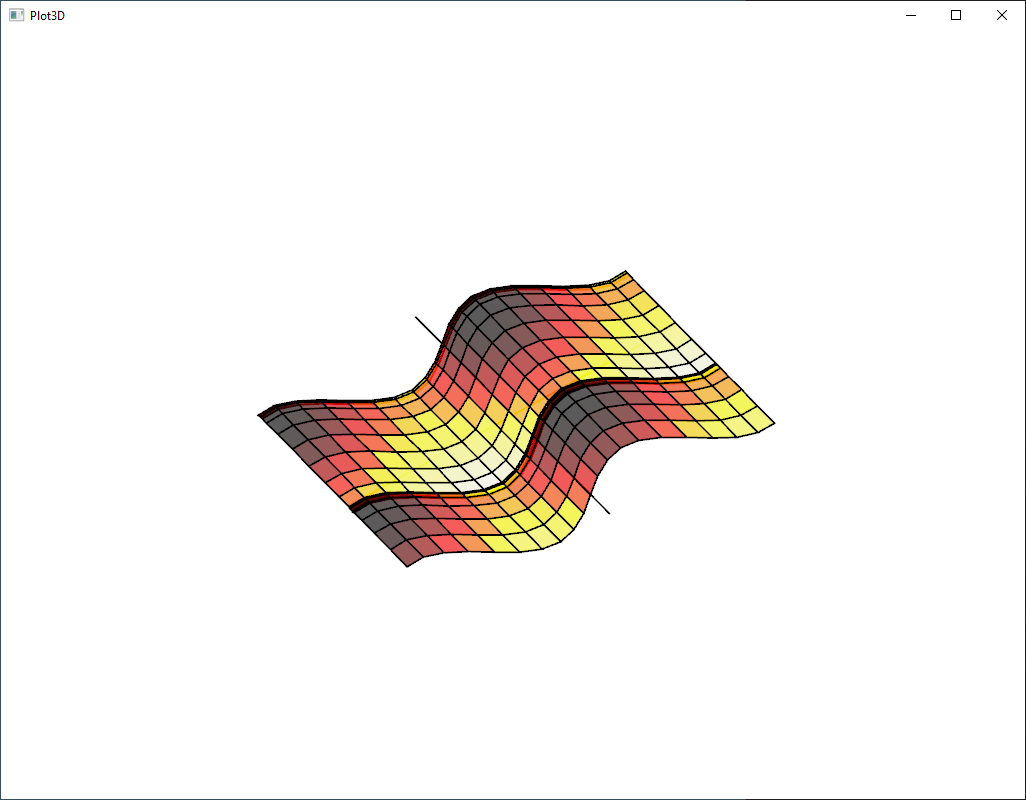
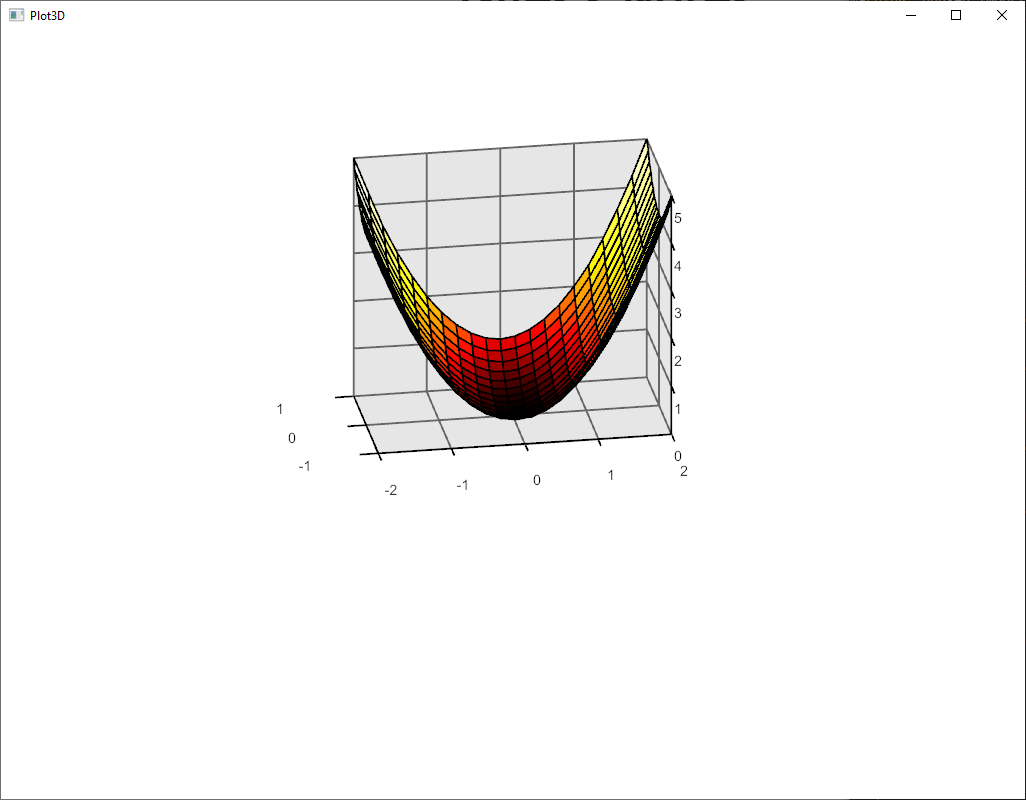
fixed the camera bugs and the bug that the y-z grid did not show up

Changed region(s): [[0.2495, 0.1562, 0.7485, 0.7188]]

diff --git a/src/window_3d.rs b/src/window_3d.rs
@@ -22,7 +22,7 @@ pub struct State {
     vertice_cache: canvas::Cache,
     plot: Plot3D,
     camera: Vector3<f32>,
-    vertices: MatrixMN<f32, U3,U8>,
+    angles: (f32, f32),
     camera_control: Camera,
 
 }
@@ -45,10 +45,8 @@ impl State {
         Self {
             vertice_cache: Default::default(),
             plot,
-            camera: Vector3::new(0.0, 5.0, 0.0),
-            vertices: MatrixMN::from_columns(&[Vector3::new(0.0,0.0,0.0), Vector3::new(0.0, 1.0, 0.0),
-            Vector3::new(1.0, 1.0, 0.0), Vector3::new(1.0, 0.0, 0.0), Vector3::new(1.0, 0.0, -1.0),
-            Vector3::new(1.0,1.0,-1.0),Vector3::new(0.0,1.0,-1.0),Vector3::new(0.0,0.0,-1.0)]),
+            camera: Vector3::new(0.0,0.0,10.0),
+            angles: (0.0, -90.0),
             camera_control: Camera::Released,
         }
     }
@@ -114,8 +112,7 @@ impl<Message> canvas::Program<Message> for State {
         bounds: Rectangle,
         cursor: Cursor,
         ) -> (event::Status, Option<Message>) {
-            let dphi = 0.001;
-            let dtheta = 0.001;
+            let sens = 0.1;
             let cursor_position =
                 if let Some(position) = cursor.position_in(&bounds) {
                     position
@@ -135,13 +132,23 @@ impl<Message> canvas::Program<Message> for State {
                             match self.camera_control {
                                 Camera::Pressed(x_c, y_c) => {
                                     let dx = x-x_c;
-                                    let dy = y-y_c;
+                                    let dy = y_c-y;
 
-                                    let (r, theta, phi) = cartesian_to_polar(&self.camera);
-                                    let phi_new = phi+dx*dphi;
-                                    let theta_new = theta-dy*dtheta;
+                                    self.angles.0 += sens*dy;
+                                    self.angles.1 +=sens*dx;
+                                    if(self.angles.0 > 89.0) {
+                                        self.angles.0 = 89.0;
+                                    }
+                                    if(self.angles.0 < -89.0) {
+                                        self.angles.0 = -89.0;
+                                    }
+                                    let dir_x = self.angles.1.to_radians().cos()
+                                        *self.angles.1.to_radians().cos();
+                                    let dir_y = self.angles.0.to_radians().sin();
+                                    let dir_z =  self.angles.1.to_radians().sin()
+                                        *self.angles.0.to_radians().cos();
                                     self.vertice_cache.clear();
-                                    self.camera = polar_to_cartesian(r,theta_new, phi_new);
+                                    self.camera = Vector3::new(dir_x, dir_y, dir_z).normalize();
                                     self.camera_control=Camera::Pressed(x,y);
 
                                 },
@@ -175,11 +182,11 @@ impl<Message> canvas::Program<Message> for State {
                 let zlims = self.plot.get_axes().get_axes().get_zaxes();
 
                 let max_val: f32 = (xlims[1].max(ylims[1])).max(zlims[1]);
-                let min_val: f32 = (xlims[0].min(ylims[0])).min(zlims[0]);
+                let min_val: f32 = -max_val;
 
                 let mut origin = Point::new(frame.width()*0.5, frame.height()*0.5);
                 // Create grid of points
-                let mut grid = Linspace::linspace_f32(2.0*min_val, 2.0*max_val, 1000);
+                let mut grid = Linspace::linspace_f32(min_val*1.1, max_val*1.1, 1000);
 
 
                 let mut x_grid_window = map_points_f32(&grid, (frame.width()*0.1, frame.width()*0.9));
@@ -238,28 +245,33 @@ impl<Message> canvas::Program<Message> for State {
                     text.horizontal_alignment = HorizontalAlignment::Center;
                     frame.fill_text(text);
 
-                    let dash_line = project_line(&camera_view,
-                                                &[x_vals_lin[i+1], zlims[0], -ylims[0]+scale/4.0].into(),
-                                               &[x_vals_lin[i+1], zlims[0], -ylims[0] - scale/4.0].into());
+                    if(i==x_vals_lin.len()-2) {
+                        
+                        let dash_line = project_line(&camera_view,
+                                                    &[x_vals_lin[i+1], zlims[0], -ylims[0]+scale/4.0].into(),
+                                                   &[x_vals_lin[i+1], zlims[0], -ylims[0] - scale/4.0].into());
 
-                    let start_x = find_point(dash_line[0].0, &x_grid_window[0..]).1;
-                    let end_x = find_point(dash_line[1].0, &x_grid_window[0..]).1;
-                    let start_y = find_point(dash_line[0].1, &y_grid_window[0..]).1;
-                    let end_y = find_point(dash_line[1].1, &y_grid_window[0..]).1;
+                        let start_x = find_point(dash_line[0].0, &x_grid_window[0..]).1;
+                        let end_x = find_point(dash_line[1].0, &x_grid_window[0..]).1;
+                        let start_y = find_point(dash_line[0].1, &y_grid_window[0..]).1;
+                        let end_y = find_point(dash_line[1].1, &y_grid_window[0..]).1;
 
 
 
-                    dash_drawer.move_to(Point::new(start_x,start_y));
-                    dash_drawer.line_to(Point::new(end_x, end_y));
-                                                                                                      
-                    let mut text = Text::from(format!("{:.0}", x_vals_lin[i+1]));
-                    let start_text = project(&camera_view,
-                                             &[x_vals_lin[i+1], zlims[0], -ylims[0]+scale].into());
-                    let text_x_coord = find_point(start_text[0], &x_grid_window[0..]).1;
-                    let text_y_coord = find_point(start_text[1], &y_grid_window[0..]).1;
-                    text.position = Point::new(text_x_coord, text_y_coord);
-                    text.horizontal_alignment = HorizontalAlignment::Center;
-                    frame.fill_text(text);
+                        dash_drawer.move_to(Point::new(start_x,start_y));
+                        dash_drawer.line_to(Point::new(end_x, end_y));
+                                                                                                          
+                        let mut text = Text::from(format!("{:.0}", x_vals_lin[i+1]));
+                        let start_text = project(&camera_view,
+                                                 &[x_vals_lin[i+1], zlims[0], -ylims[0]+scale].into());
+                        let text_x_coord = find_point(start_text[0], &x_grid_window[0..]).1;
+                        let text_y_coord = find_point(start_text[1], &y_grid_window[0..]).1;
+                        text.position = Point::new(text_x_coord, text_y_coord);
+                        text.horizontal_alignment = HorizontalAlignment::Center;
+                        frame.fill_text(text);
+
+
+                    }
 
                     for j in 0..y_vals_lin.len()-1 {
                         let p1 = project(&camera_view,
@@ -343,35 +355,41 @@ impl<Message> canvas::Program<Message> for State {
 
                     dash_drawer.move_to(Point::new(start_x, start_y));
                     dash_drawer.line_to(Point::new(end_x, end_y));
-                    let dash_line = project_line(&camera_view,
-                                                 &[start+sign*scale/4.0, z_vals_lin[i+1], -ylims[1]].into(),
-                                                 &[start-sign*scale/4.0, z_vals_lin[i+1], -ylims[1]].into());
-                    let text_pos = project(&camera_view,
-                                           &[start+sign*scale/2.0, z_vals_lin[i+1], -ylims[1]].into());
-                    let text_x_coord = find_point(text_pos[0], &x_grid_window[0..]).1;
-                    let text_y_coord = find_point(text_pos[1], &y_grid_window[0..]).1;
-                    let mut text = Text::from(format!("{:.0}", z_vals_lin[i+1]));
-                    text.position = Point::new(text_x_coord, text_y_coord);
-                    text.horizontal_alignment = HorizontalAlignment::Center;
-                    frame.fill_text(text);
+                    if(i==z_vals_lin.len()-2) {
                     
-                    let start_x = find_point(dash_line[0].0, &x_grid_window[0..]).1;
-                    let end_x = find_point(dash_line[1].0, &x_grid_window[0..]).1;
-                    let start_y = find_point(dash_line[0].1, &y_grid_window[0..]).1;
-                    let end_y = find_point(dash_line[1].1, &y_grid_window[0..]).1;
+                        let dash_line = project_line(&camera_view,
+                                                     &[start+sign*scale/4.0, z_vals_lin[i+1], -ylims[1]]
+                                                     .into(),
+                                                     &[start-sign*scale/4.0, z_vals_lin[i+1], -ylims[1]]
+                                                     .into());
+                        let text_pos = project(&camera_view,
+                                               &[start+sign*scale/2.0, z_vals_lin[i+1], -ylims[1]].into());
+                        let text_x_coord = find_point(text_pos[0], &x_grid_window[0..]).1;
+                        let text_y_coord = find_point(text_pos[1], &y_grid_window[0..]).1;
+                        let mut text = Text::from(format!("{:.0}", z_vals_lin[i+1]));
+                        text.position = Point::new(text_x_coord, text_y_coord);
+                        text.horizontal_alignment = HorizontalAlignment::Center;
+                        frame.fill_text(text);
+                        
+                        let start_x = find_point(dash_line[0].0, &x_grid_window[0..]).1;
+                        let end_x = find_point(dash_line[1].0, &x_grid_window[0..]).1;
+                        let start_y = find_point(dash_line[0].1, &y_grid_window[0..]).1;
+                        let end_y = find_point(dash_line[1].1, &y_grid_window[0..]).1;
 
-                    dash_drawer.move_to(Point::new(start_x, start_y));
-                    dash_drawer.line_to(Point::new(end_x, end_y));
+                        dash_drawer.move_to(Point::new(start_x, start_y));
+                        dash_drawer.line_to(Point::new(end_x, end_y));
+                    }
+
 
                     for j in 0..y_vals_lin.len()-1 {
                         let p1 = project(&camera_view,
                                          &[xlims[1], z_vals_lin[i], -y_vals_lin[j]].into());
                         let p2 = project(&camera_view,
-                                         &[xlims[1], z_vals_lin[i+1], -y_vals_lin[j]].into());
+                                         &[xlims[1], z_vals_lin[i], -y_vals_lin[j+1]].into());
                         let p3 = project(&camera_view,
                                          &[xlims[1], z_vals_lin[i+1], -y_vals_lin[j+1]].into());
                         let p4 = project(&camera_view,
-                                         &[xlims[1], z_vals_lin[i], -y_vals_lin[j+1]].into());
+                                         &[xlims[1], z_vals_lin[i+1], -y_vals_lin[j]].into());
                         let p1_coord_x = find_point(p1[0], &x_grid_window[0..]).1;
                         let p1_coord_y = find_point(p1[1], &y_grid_window[0..]).1;
 
@@ -415,6 +433,7 @@ impl<Message> canvas::Program<Message> for State {
                     text.position = Point::new(text_x_coord, text_y_coord);
                     text.horizontal_alignment = HorizontalAlignment::Center;
                     frame.fill_text(text);
+
                 }
 
 
@@ -424,7 +443,7 @@ impl<Message> canvas::Program<Message> for State {
 
                 
                 let rect_grid_p = grid_rectangle.build();
-                frame.fill(&rect_grid_p, iced::Color::new(0.99,0.99,0.99,1.0));
+                frame.fill(&rect_grid_p, iced::Color::new(0.9,0.9,0.9,1.0));
                 frame.stroke(&rect_grid_p, Stroke {color: iced::Color::new(0.4, 0.4, 0.4, 1.0),
                 width: 2.0, line_cap: LineCap::Butt, line_join: LineJoin::Miter});
 
@@ -507,11 +526,11 @@ impl<Message> canvas::Program<Message> for State {
                                 let b = c.0[color_index].2;
                                 //println!("r,g,b is {},{},{}", r,g,b);
                                 //println!("color index is {}", color_index);
-                                iced::Color::new(r,g,b,0.9)                             
+                                iced::Color::new(r,g,b,1.0)                             
                             } else {
                                 if let Some(c2) = s.get_color() {
                                     iced::Color::new(c2.0, c2.1, c2.2, c2.3)
-                                } else { iced::Color::new(0.0, 0.0, 1.0, 0.9)}
+                                } else { iced::Color::new(0.0, 0.0, 1.0, 1.0)}
                             };
 
                             //println!("color is {:?}", color);

diff --git a/src/math.rs b/src/math.rs
@@ -1,29 +1,34 @@
 use nalgebra::geometry::{Point3, Perspective3};
-use nalgebra::base::{Matrix3, DMatrix,Matrix, DVector};
-use nalgebra::base::Vector3;
+use nalgebra::base::{Matrix4, DMatrix,Matrix3, DVector, RowVector3};
+use nalgebra::base::{Vector3, Vector4};
 use std::ops::{Add, Sub};
 use crate::plot::*;
 
-pub fn create_camera(pos: &Vector3<f32>, target: &Vector3<f32>) -> Matrix3<f32> {
-    let dir: Vector3<f32> = (target-pos).normalize();
-    let up: Vector3<f32> = Vector3::new(0.0, 1.0, 0.0);
-    let x: Vector3<f32> = dir.cross(&up).normalize();
-    let z: Vector3<f32> = x.cross(&dir).normalize();
+pub fn create_camera(pos: &Vector3<f32>, target: &Vector3<f32>) -> Matrix4<f32> {
+    let mut dir: Vector3<f32> = (pos-target).normalize();
+    let mut up: Vector3<f32> = Vector3::new(0.0, 1.0, 0.0);
+    let mut x: Vector3<f32> = up.cross(&dir).normalize();
+    let mut z: Vector3<f32> = dir.cross(&x).normalize();
+    let t: Vector4<f32> = Vector4::new(0.0,0.0,0.0,1.0);
 
-    let mut camera_matrix  = Matrix3::from_columns(&[x, z, dir]);
+    let mut camera_matrix  = Matrix4::from_columns(&[x.to_homogeneous(), z.to_homogeneous(),
+    dir.to_homogeneous(),t]).transpose()
+        *Matrix4::from_columns(&[Vector4::new(1.0,0.0,0.0,0.0),
+        Vector4::new(0.0,1.0,0.0,0.0),Vector4::new(0.0,0.0,1.0,0.0),
+        Vector4::new(-pos[0], -pos[1], -pos[2],0.0)]);
     camera_matrix
 
 }
 
-pub fn project(camera: &Matrix3<f32>, point: &Vector3<f32>) -> [f32;2] {
+pub fn project(camera: &Matrix4<f32>, point: &Vector3<f32>) -> [f32;2] {
     //let hpoint = point;
-    let point_3d = camera*point;
+    let point_3d = camera*point.to_homogeneous();
     let point_2d = [point_3d[0], point_3d[2]];
     point_2d
     
 }
 
-pub fn project_line(camera: &Matrix3<f32>, point_1: &Vector3<f32>, point_2: &Vector3<f32>) -> [(f32, f32);2] {
+pub fn project_line(camera: &Matrix4<f32>, point_1: &Vector3<f32>, point_2: &Vector3<f32>) -> [(f32, f32);2] {
     let p1 = project(&camera, &point_1);
     let p2 = project(&camera, &point_2);
     [(p1[0], p1[1]), (p2[0], p2[1])]
@@ -53,14 +58,14 @@ pub fn polar_to_cartesian(r: f32, theta: f32, phi: f32) -> Vector3<f32> {
     let x = r*theta.sin()*phi.cos();
     let y = r*theta.sin()*phi.sin();
     let z = r*theta.cos();
-    let coords = Vector3::new(x,y,z);
+    let coords = Vector3::new(x,z,-y);
     coords
 }
 
 pub fn cartesian_to_polar(points: &Vector3<f32>) -> (f32,f32,f32) {
     let r = points.norm();
-    let mut theta = (points[2]/r).acos();
-    let mut phi = (points[1]).atan2(points[0]);
+    let mut theta = (points[1]/r).acos();
+    let mut phi = (-points[2]).atan2(points[0]);
     if(theta>std::f32::consts::PI) {
         theta = theta-std::f32::consts::PI;
         phi = phi+std::f32::consts::PI;

diff --git a/src/bin/main.rs b/src/bin/main.rs
@@ -27,14 +27,14 @@ pub fn main() -> iced::Result {
     //
     //
     let x = Linspace::linspace_f32(-1.0, 1.0, 20);
-    let y = Linspace::linspace_f32(-1.0, 1.0, 20);
+    let y = Linspace::linspace_f32(-2.0, 2.0, 20);
     let (X, Y) = meshgrid(&x,&y);
     let Z = X.component_mul(&X)+Y.component_mul(&Y);
     //let Z = X.map(|x| x.sin())+Y.map(|y| y.cos());
     //println!("Z is {}", Z);
     
     let s = Surface3D::new(X,Y,Z);
-    let plot = Plot3D::plot(s).colormap("hot").scale(0.5);
+    let plot = Plot3D::plot(s).colormap("hot").scale(1.0);
 
     //Plot3D::show(plot)
 
